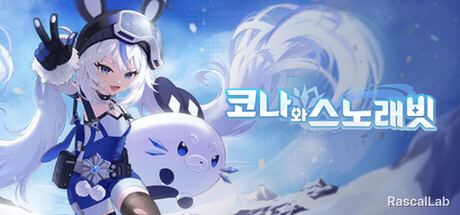
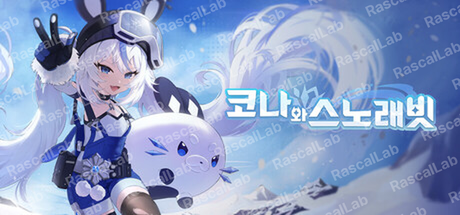
코나와 스노래빗 워터마크를 그림 전체로, Last Hideout 대표 이미지를 목업으로
- 코나와 스노래빗: RascalLab 워터마크를 비스듬히 반복해 전체를 덮고, thumbPos 로 썸네일에 캐릭터만 보이게
- thumbPos: 썸네일·목록 카드의 object-position (프로젝트별, 비우면 가운데)
- Last Hideout: 보드 목업 그림으로 교체(어두운 바탕), 쓰지 않는 보드 사진 삭제

Claude-Session: https://claude.ai/code/session_01T9Jvhuxx4C4atYPKK4bagR

diff --git a/assets/data.js b/assets/data.js
@@ -1554,10 +1554,10 @@ projects:[
 
 - QA에 직접 참여, 누락과 오류 검수
 `,shortVideos:[{src:"assets/videos/project-04-hero.mp4",title:"My Darkest Friend 소개 영상"}],images:[],documents:[{title:"My Darkest Friend 컨셉 기획서",src:"assets/documents/my-darkest-friend-concept.pdf"}]},
-  {id:"project-05",year:"2025",title:"코나와 스노래빗",genre:"액션, 어드벤처, 캐주얼, 인디",role:"내 역할 입력",summary:"악동들의 냉동 액션!",body:"프로젝트 상세 설명 입력",image:"assets/images/project-05-thumb.png",team:[{part:"기획",count:0},{part:"아트",count:0},{part:"프로그래밍",count:0}],period:"2025.02.18 ~ 2025.11.30",position:"배경원화",gains:"원화 - 3D - 레벨 파이프라인",quote:"",problem:"",solution:{before:"",after:"",note:""},md:`@@소개
+  {id:"project-05",year:"2025",title:"코나와 스노래빗",genre:"액션, 어드벤처, 캐주얼, 인디",role:"내 역할 입력",summary:"악동들의 냉동 액션!",body:"프로젝트 상세 설명 입력",image:"assets/images/project-05-thumb.png",thumbPos:"4% 50%",team:[{part:"기획",count:0},{part:"아트",count:0},{part:"프로그래밍",count:0}],period:"2025.02.18 ~ 2025.11.30",position:"배경원화",gains:"원화 - 3D - 레벨 파이프라인",quote:"",problem:"",solution:{before:"",after:"",note:""},md:`@@소개
 링크: Steam 페이지 | https://store.steampowered.com/app/3985850/%EC%BD%94%EB%82%98%EC%99%80_%EC%8A%A4%EB%85%B8%EB%9E%98%EB%B9%97/?l=koreana
 `,shortVideos:[{src:"assets/videos/project-05-hero.mp4",title:"코나와 스노래빗 트레일러"}],images:[],documents:[]},
-  {id:"project-06",year:"2022",title:"Last Hideout",genre:"전략, 보드게임",role:"내 역할 입력",summary:"좀비를 막고 생존하는 4인 보드게임",body:"프로젝트 상세 설명 입력",image:"assets/images/project-06-board.webp",team:[{part:"기획",count:0},{part:"아트",count:0},{part:"프로그래밍",count:0}],period:"2022.12 ~ 2022.12.26",position:"기획, 아트",gains:"실제 제작 경험",quote:"",problem:"",solution:{before:"",after:"",note:""},md:`@@소개
+  {id:"project-06",year:"2022",title:"Last Hideout",genre:"전략, 보드게임",role:"내 역할 입력",summary:"좀비를 막고 생존하는 4인 보드게임",body:"프로젝트 상세 설명 입력",image:"assets/images/project-06-thumb.webp",team:[{part:"기획",count:0},{part:"아트",count:0},{part:"프로그래밍",count:0}],period:"2022.12 ~ 2022.12.26",position:"기획, 아트",gains:"실제 제작 경험",quote:"",problem:"",solution:{before:"",after:"",note:""},md:`@@소개
 
 @@탭 프로젝트
 

diff --git a/assets/app.js b/assets/app.js
@@ -7,6 +7,8 @@ var d=window.PORTFOLIO_DATA||{};
 function e(v){return String(v==null?'':v).replace(/[&<>'"]/g,function(c){
   return{'&':'&amp;','<':'&lt;','>':'&gt;',"'":'&#39;','"':'&quot;'}[c]})}
 function q(id){return document.getElementById(id)}
+/* 썸네일처럼 잘라 보이는 자리에서 그림의 어느 쪽을 보일지 — data.js 의 thumbPos(예: "5% 50%") */
+function thumbPos(p){return p&&p.thumbPos?' style="object-position:'+e(p.thumbPos)+'"':''}
 /* 프로젝트는 작업 기간이 늦게 끝난 것부터 보여 준다.
    기간을 안 적은 것은 data.js 에 쓴 차례대로 뒤에 붙는다 */
 function periodKey(p){
@@ -252,7 +254,7 @@ function sheetTable(key){
   grid.innerHTML=projects().map(function(p){
     var cover=p.image||((p.images||[])[0]||{}).src||'';
     return'<a class="proj-card" href="project.html?id='+encodeURIComponent(p.id)+'">'
-      +'<div class="proj-card-thumb">'+(cover?'<img src="'+e(cover)+'" alt="'+e(p.title)+'" loading="lazy">':'이미지 추가 영역')+'</div>'
+      +'<div class="proj-card-thumb">'+(cover?'<img src="'+e(cover)+'" alt="'+e(p.title)+'" loading="lazy"'+thumbPos(p)+'>':'이미지 추가 영역')+'</div>'
       +'<div class="proj-card-meta"><span>'+e(p.year)+'</span><h2>'+e(p.title)+'</h2>'
       +'<p>'+e(p.position||p.role||'')+'</p></div></a>';
   }).join('')||'<p class="rs-empty">프로젝트를 추가해 주세요</p>';
@@ -763,7 +765,7 @@ function renderBlocks(md,c){
               var now=x.id===p.id;
               return'<button type="button" class="pj-thumb'+(now?' on':'')+'" data-go="'+e(x.id)
                 +'" title="'+e(x.title)+'"'+(now?' aria-current="true"':'')+'>'
-                +(c?'<img src="'+e(c)+'" alt="'+e(x.title)+'" loading="lazy">'
+                +(c?'<img src="'+e(c)+'" alt="'+e(x.title)+'" loading="lazy"'+thumbPos(x)+'>'
                    :'<span class="pj-thumb-empty">'+e(x.title)+'</span>')+'</button>'}).join('')
           +'</div>'
           +'<button type="button" class="pj-thumbs-arrow" data-scroll="1" aria-label="다음 프로젝트들">›</button>'

diff --git a/CLAUDE.md b/CLAUDE.md
@@ -137,6 +137,7 @@
 - **`이미지`·`표` 양식의 밝기는 `tone:'이어받기'`다** — 바로 위 칸에 딸린 그림이라 같은 밝기로 붙는다. 따로 띠가 생기면 "의미 없는 검은 띠"가 된다.
 - **`글`·`이미지` 양식의 `그림:`은 쉼표로 여러 장을 받는다**(`figures()`). 한 장이면 `.pj-cols` 두 칸(기획서 슬라이드처럼 글 옆), 여러 장이면 `.pj-figs.n2~n4` 한 줄. `그림위치: 왼쪽`으로 좌우를 바꾼다. **다섯 장이 넘으면** `figures()`가 `--cols`에 장수를 넣고 `.pj-figs.many`가 그만큼 칸을 나눈다(좁은 화면에서는 3열 → 2열).
 - **그림은 자르지 않고, 칸도 그림보다 커지지 않는다**(2026-11 사용자 요청). 모든 그림 칸이 `width:auto;max-width:100%;height:auto;max-height:…` + `contain` 이라 테두리가 늘 그림에 딱 맞는다. **`height`를 고정하면 폭이 `max-width`에 걸릴 때 칸 안에 빈 자리가 남으므로 `max-height`로 묶을 것.** 예전에는 `aspect-ratio:4/3` + `cover`로 조금씩 잘랐는데 세로 화면이 30%까지 잘려 나갔다. 자르는 곳은 오른쪽 위 썸네일(`.pj-thumb`)과 맨 위 16:9 화면뿐이다. `.pj-figs.n1`(한 장짜리 `@@이미지`)만 원본 비율 그대로다 — 도식·표를 넣는 자리라 자르면 안 된다. 다만 **세로로 긴 그림(모바일 게임 화면 등)은 `max-height:72vh`로 묶는다**(`.wrap>.pj-figs.n1 img`). 자르지 않고 가운데에 놓이며 좌우는 칸 바탕이 된다. **폭은 `100%`로 두어야** 아직 안 불러온 그림도 자리를 잡는다(`width:auto`로 바꿨다가 2px로 쪼그라들었다). `.pj-cols`의 옆그림도 `n1`이므로 `.wrap>`로 범위를 좁혀야 한다. **`비율: 원본`을 적으면 여러 장이어도 자르지 않는다**(`.pj-figs.as-is`) — 원화처럼 잘리면 안 되는 그림에 쓴다. 대신 **나란히 놓인 그림들의 높이는 맞춘다**(`height:clamp(240px,30vw,440px)` + `contain`). 비율이 다르면 좌우에 칸 바탕이 남지만 아랫변이 가지런히 떨어진다.
+- **프로젝트의 `thumbPos`(예: `"4% 50%"`)는 잘라 보이는 썸네일(`.pj-thumb`, `.proj-card-thumb`)의 `object-position`이다**(`app.js`의 `thumbPos()`). 그림 파일은 그대로 두고 보이는 자리만 옮긴다. 안 적으면 가운데.
 - 기획서의 `이름:`은 `documents`를 걸러 준다. **단추의 `data-doc`은 걸러진 뒤 순번이 아니라 원래 배열의 자리여야 한다** — 뷰어(`showDoc`)가 같은 배열을 인덱싱하기 때문이다. 한 번 어긋나 엉뚱한 문서가 열렸다.
 
 ## 디자인 시스템 — 어두운 차콜 + 가는 선 + 하늘색 포인트
@@ -242,8 +243,8 @@ python -m http.server 8000
 | `project-02` | 타일 시공 마스터 | 프로젝트 | 소개 영상이 mp4(`assets/videos/project-02-hero.mp4`) |
 | `project-03` | 다녀가용 | 프로젝트 · 워크 플로우 · 리소스 구현 · 제안서 | 영상 없음 |
 | `project-04` | My Darkest Friend | 프로젝트 · 문제 상황 | 2024 졸업 작품. 소개 영상 mp4(`assets/videos/project-04-hero.mp4`), 표지는 기획서 로고 |
-| `project-05` | 코나와 스노래빗 | (없음 — 소개만) | 라스칼랩 작업. 소개 영상은 스팀 두 번째 트레일러(`assets/videos/project-05-hero.mp4`), 썸네일에 RascalLab 워터마크, 소개에 Steam 링크 |
-| `project-06` | Last Hideout | 프로젝트 | 2022 보드게임. 대표 이미지는 실물 보드 사진. 프로젝트 탭은 기말 발표 자료 PDF(`assets/documents/221218_기말발표자료_22기조사단.pdf`, 41MB)를 옮긴 것 — 시장·이용층 분석(7~12쪽)은 넣지 않았다 |
+| `project-05` | 코나와 스노래빗 | (없음 — 소개만) | 라스칼랩 작업. 소개 영상은 스팀 두 번째 트레일러(`assets/videos/project-05-hero.mp4`), 썸네일은 RascalLab 워터마크가 비스듬히 그림 전체를 덮는다(이 프로젝트만). `thumbPos:"4% 50%"`로 썸네일에 캐릭터 쪽만 보인다. 소개에 Steam 링크 |
+| `project-06` | Last Hideout | 프로젝트 | 2022 보드게임. 대표 이미지는 사용자가 준 보드 목업(`project-06-thumb.webp`, 투명 바탕을 `--screen` 색에 얹음 — 흰 바탕이면 맨 위 제목이 묻힌다). 프로젝트 탭은 기말 발표 자료 PDF(`assets/documents/221218_기말발표자료_22기조사단.pdf`, 41MB)를 옮긴 것 — 시장·이용층 분석(7~12쪽)은 넣지 않았다 |
 
 `project-07` 이후는 빈 틀이다. **프로젝트는 `period`의 끝 날짜로 자동 정렬되므로 배열 순서를 바꾸지 말고 기간만 적으면 된다.**
 
